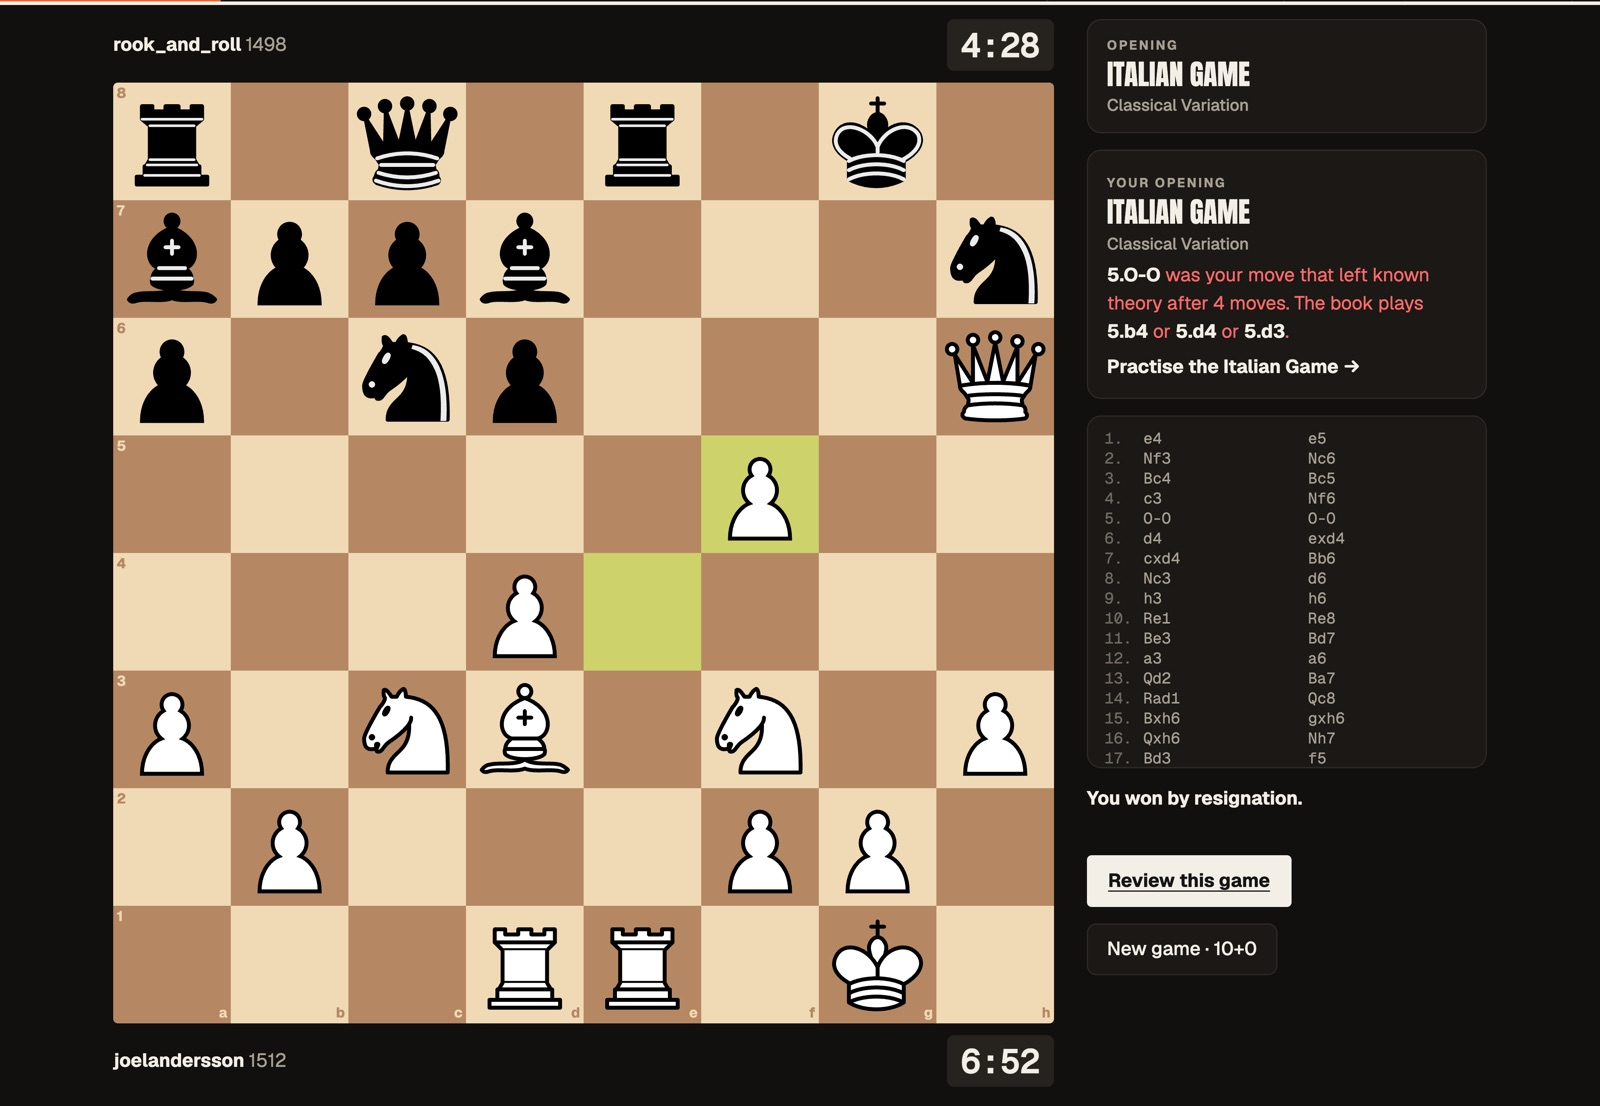
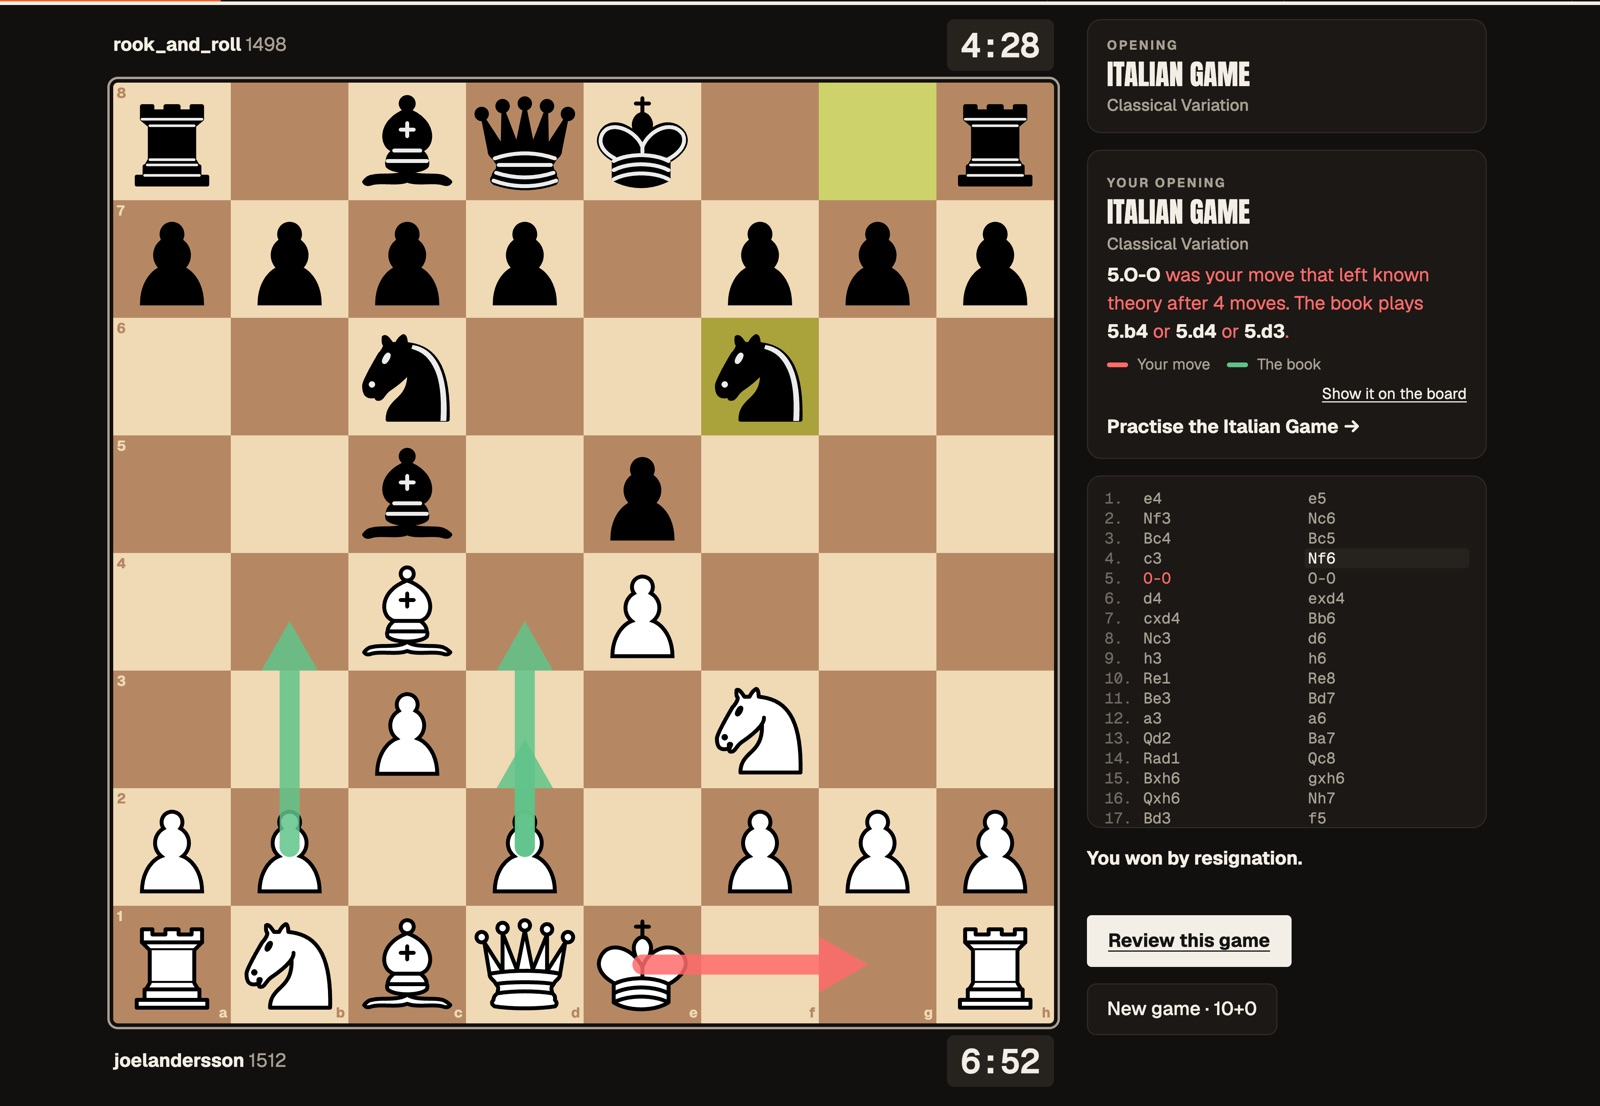
Play: after the game the board goes to where you left the book, your move as a red arrow and the book's in green, the move marked in the list; Show it on the board brings it back

diff --git a/play.js b/play.js
@@ -2,8 +2,8 @@
 // The login needs the board:play permission once; then a seek or a challenge starts a game, which Lichess
 // streams here move by move. When it ends, the game page reviews it.
 import { Chess } from 'https://cdn.jsdelivr.net/npm/chess.js@1.0.0/+esm';
-import { drawBoard, enableDrag } from './board.js?v=20261102160446';
-import { account, login, finishLogin } from './lichess.js?v=20261102160446';
+import { drawBoard, enableDrag } from './board.js?v=20261102161034';
+import { account, login, finishLogin } from './lichess.js?v=20261102161034';
 
 const $ = (s) => document.querySelector(s);
 const API = 'https://lichess.org';
@@ -135,7 +135,7 @@ function draw() {
   if (view !== null && view >= all.length) view = null;
   const b = view === null ? g.chess : new Chess();
   if (view !== null) all.slice(0, view).forEach((m) => b.move(m));
-  drawBoard(boardEl, b, { side: g.me, sel: view === null ? g.sel : null, last: b.history({ verbose: true }).at(-1) || null, pre: g.pre && view === null ? [g.pre.from, g.pre.to] : [] });
+  drawBoard(boardEl, b, { side: g.me, sel: view === null ? g.sel : null, last: b.history({ verbose: true }).at(-1) || null, pre: g.pre && view === null ? [g.pre.from, g.pre.to] : [], arrows: g.slip && view === g.slip.ply ? g.slip.arrows : [] });
   boardEl.classList.toggle('looking-back', view !== null);
   [...$('#play-moves').querySelectorAll('[data-ply]')].forEach((x) => x.classList.toggle('now', Number(x.dataset.ply) === (view ?? all.length) - 1));
   const top = g.me === 'w' ? 'b' : 'w';
@@ -148,6 +148,7 @@ function draw() {
   const sans = g.chess.history();
   $('#play-moves').innerHTML = sans.reduce((a, s, i) => (i % 2 ? a : [...a, `<li><span data-ply="${i}">${s}</span><span data-ply="${i + 1}">${sans[i + 1] || ''}</span></li>`]), []).join('');
   $('#play-moves').querySelector(`[data-ply="${(view ?? sans.length) - 1}"]`)?.classList.add('now');
+  if (g.slip) $('#play-moves').querySelector(`[data-ply="${g.slip.ply}"]`)?.classList.add('slip');
   if (view === null) $('#play-moves').scrollTop = 1e6;
   openingOf(sans.slice(0, 24)).then(([f, v]) => { $('#play-open').innerHTML = `${esc(f)}${v ? `<small>${esc(v)}</small>` : ''}`; });
 }
@@ -188,8 +189,18 @@ async function review() {
     ${!out ? '<p>The game stayed in known theory all through the opening.</p>' : mine
       ? `<p class="play-off bad"><b>${mv(out.ply, out.san)}</b> was your move that left known theory${out.ply ? ` after ${Math.ceil(out.ply / 2)} moves` : ''}. The book plays <b>${out.book.map((b) => mv(out.ply, b)).join('</b> or <b>')}</b>.</p>`
       : `<p class="play-off">Your opponent left known theory with <b>${mv(out.ply, out.san)}</b>; you were still in the book.</p>`}
+    ${mine ? '<p class="play-key"><i class="bad"></i>Your move <i class="good"></i>The book <button type="button" class="link" id="play-slip">Show it on the board</button></p>' : ''}
     ${f !== 'Starting position' ? `<p><a class="link" href="${link}">Practise the ${esc(f)} →</a></p>` : ''}`;
   $('#play-review').hidden = false;
+  // Your slip on the board: the position before it, your move in red and the book's in green.
+  if (mine) {
+    const b = new Chess(); sans.slice(0, out.ply).forEach((m) => b.move(m));
+    const arrow = (san, c) => { const m = new Chess(b.fen()).move(san); return [m.from, m.to, c]; };
+    g.slip = { ply: out.ply, arrows: [...out.book.map((x) => arrow(x, 'var(--good)')), arrow(out.san, 'var(--bad)')] };
+    const show = () => { view = g.slip.ply; draw(); };
+    $('#play-slip').addEventListener('click', show);
+    show();
+  }
 }
 function resetBtns() {
   $('#play-btns').innerHTML = '<button type="button" class="ghost" id="play-draw">Offer draw</button><button type="button" class="ghost" id="play-resign">Resign</button>';

diff --git a/app.js b/app.js
@@ -1,17 +1,17 @@
 import { Chess } from 'https://cdn.jsdelivr.net/npm/chess.js@1.0.0/+esm';
-import { drawBoard, enableDrag, clearShapes, shake, moveWords, instruction, GLYPH, flyStar } from './board.js?v=20261102160446';
-import { findMistakes, byTheme, pickPuzzles, THEMES } from './mistakes.js?v=20261102160446';
-import { ideaAt, CENTRE, hanging, dangerAfter, asMover } from './ideas.js?v=20261102160446';
-import { NAMED_TRAPS } from './traps.js?v=20261102160446';
-import { GUIDE } from './guide.js?v=20261102160446';
-import { STYLES, STYLE_OF, ABOUT, PLAN, VS_PLAN } from './styles.js?v=20261102160446';
-import { banner, confetti } from './celebrate.js?v=20261102160446';
-import { maia3Move } from './maia3.js?v=20261102160446';
-import { maiaMove, maiaLevel, MAIA_MAX } from './maia.js?v=20261102160446';
-import { nick, isCC, asLichess } from './chesscom.js?v=20261102160446';
-import { login, finishLogin, account, liveGames, lichessToken } from './lichess.js?v=20261102160446';
-import { openLogin } from './login.js?v=20261102160446';
-import { storedGames, gamesReady, profileFromRaw, skillsOf, playerCard, flagHtml, loadFlags, bandColor, proClass, tierOf, keptTypes } from './profile.js?v=20261102160446';
+import { drawBoard, enableDrag, clearShapes, shake, moveWords, instruction, GLYPH, flyStar } from './board.js?v=20261102161034';
+import { findMistakes, byTheme, pickPuzzles, THEMES } from './mistakes.js?v=20261102161034';
+import { ideaAt, CENTRE, hanging, dangerAfter, asMover } from './ideas.js?v=20261102161034';
+import { NAMED_TRAPS } from './traps.js?v=20261102161034';
+import { GUIDE } from './guide.js?v=20261102161034';
+import { STYLES, STYLE_OF, ABOUT, PLAN, VS_PLAN } from './styles.js?v=20261102161034';
+import { banner, confetti } from './celebrate.js?v=20261102161034';
+import { maia3Move } from './maia3.js?v=20261102161034';
+import { maiaMove, maiaLevel, MAIA_MAX } from './maia.js?v=20261102161034';
+import { nick, isCC, asLichess } from './chesscom.js?v=20261102161034';
+import { login, finishLogin, account, liveGames, lichessToken } from './lichess.js?v=20261102161034';
+import { openLogin } from './login.js?v=20261102161034';
+import { storedGames, gamesReady, profileFromRaw, skillsOf, playerCard, flagHtml, loadFlags, bandColor, proClass, tierOf, keptTypes } from './profile.js?v=20261102161034';
 
 const STORE = 'opening-book-v2';
 const MIN_SHARE = 0.05;   // an opponent reply must be played in at least 5% of games from that position

diff --git a/game.js b/game.js
@@ -2,12 +2,12 @@
 // decided it (yours and your opponent's mistakes, with the better move), and a short read of what
 // went well and what went badly. The game comes from the games kept for the profile, or straight
 // from Lichess. A game without analysis can be analysed here with Stockfish in a few seconds.
-import { banner, confetti } from './celebrate.js?v=20261102160446';
+import { banner, confetti } from './celebrate.js?v=20261102161034';
 import { Chess } from 'https://cdn.jsdelivr.net/npm/chess.js@1.0.0/+esm';
-import { drawBoard, enableDrag } from './board.js?v=20261102160446';
-import { account, lichessAuth } from './lichess.js?v=20261102160446';
-import { isCC, nick, ccGameUrl } from './chesscom.js?v=20261102160446';
-import { gamesReady, storedGames, keepGame, engineEval, applyEvals, winPct, profileFromRaw, skillsOf, fineSkillsOf } from './profile.js?v=20261102160446';
+import { drawBoard, enableDrag } from './board.js?v=20261102161034';
+import { account, lichessAuth } from './lichess.js?v=20261102161034';
+import { isCC, nick, ccGameUrl } from './chesscom.js?v=20261102161034';
+import { gamesReady, storedGames, keepGame, engineEval, applyEvals, winPct, profileFromRaw, skillsOf, fineSkillsOf } from './profile.js?v=20261102161034';
 
 const $ = (s) => document.querySelector(s);
 const esc = (s) => String(s).replace(/[&<>"]/g, (c) => `&#${c.charCodeAt(0)};`);
@@ -310,7 +310,7 @@ async function tryMove(from, to) {
   if (t.c.isGameOver()) return drawTry(), ended(t), true;
   t.busy = true; drawTry();
   const legal = t.c.moves({ verbose: true });
-  const { maia3Move } = await import('./maia3.js?v=20261102160446'), { maiaMove, MAIA_MAX } = await import('./maia.js?v=20261102160446'); // loaded on the first move only: the nets are big
+  const { maia3Move } = await import('./maia3.js?v=20261102161034'), { maiaMove, MAIA_MAX } = await import('./maia.js?v=20261102161034'); // loaded on the first move only: the nets are big
   let r = null;
   try { r = (await within(20000, maia3Move(t.c.fen(), legal, t.rating, t.rating))).move; } catch (e) { console.warn(e); }
   if (!r && t.rating < MAIA_MAX + 100) try { r = (await within(15000, maiaMove(t.rating, [t.c.fen()], legal))).move; } catch (e) { console.warn(e); }

diff --git a/supporters.html b/supporters.html
@@ -16,10 +16,10 @@
   <link rel="preconnect" href="https://fonts.googleapis.com">
   <link rel="preconnect" href="https://fonts.gstatic.com" crossorigin>
   <link rel="stylesheet" href="https://fonts.googleapis.com/css2?family=Anton&family=Geist:wght@400;500;700&family=Geist+Mono:wght@400;500&display=swap">
-  <link rel="stylesheet" href="style.css?v=20261102160446">
-  <script src="move.js?v=20261102160446"></script>
-  <script src="header.js?v=20261102160446" defer></script>
-  <script src="theme.js?v=20261102160446"></script>
+  <link rel="stylesheet" href="style.css?v=20261102161034">
+  <script src="move.js?v=20261102161034"></script>
+  <script src="header.js?v=20261102161034" defer></script>
+  <script src="theme.js?v=20261102161034"></script>
 </head>
 <body>
   <header class="top">
@@ -50,11 +50,11 @@
       <div class="sups-shots">
         <figure><img src="img/supporters/play-lobby.jpg" alt="The Play page: Play first in the menu, time controls for rapid, classical and blitz, and your last games" loading="lazy"><figcaption>Play in the menu: pick a time and find an opponent</figcaption></figure>
         <figure><img src="img/supporters/play-game.jpg" alt="A game on Chess Labs: the board with both clocks, the opening named, and the moves" loading="lazy"><figcaption>During a game: the board, the clocks and the opening</figcaption></figure>
-        <figure><img src="img/supporters/play-review.jpg" alt="After a game: where you left the known line, what the book plays there, and a link to practise the opening" loading="lazy"><figcaption>After the game: where you left your line, and a link to practise it</figcaption></figure>
+        <figure><img src="img/supporters/play-review.jpg" alt="After a game: where you left the known line, your move in red and the book’s in green on the board, and a link to practise the opening" loading="lazy"><figcaption>After the game: where you left your line, your move and the book’s on the board, and a link to practise it</figcaption></figure>
       </div>
     </section>
   </main>
 
-  <script type="module" src="supporters.js?v=20261102160446"></script>
+  <script type="module" src="supporters.js?v=20261102161034"></script>
 </body>
 </html>

diff --git a/style.css b/style.css
@@ -2934,6 +2934,10 @@ body:has(> .msg-foot) > main { min-height: calc(100dvh - 210px); }
 .play-game { display: grid; grid-template-columns: minmax(0, min(calc(100vh - 200px), 860px)) minmax(0, 340px); gap: 28px; align-items: start; justify-content: center; margin-top: 12px; }
 .play-open small { display: block; margin-top: 4px; font: 500 14px/1.3 var(--font-body); text-transform: none; color: var(--muted); }
 .play-review p { margin: 6px 0 0; } .play-off.bad { color: var(--bad); } .play-off.bad b { color: var(--ink); }
+.play-key { display: flex; flex-wrap: wrap; align-items: center; gap: 6px 8px; font-size: 13px; color: var(--muted); }
+.play-key i { width: 18px; height: 4px; border-radius: 2px; background: var(--bad); } .play-key i.good { background: var(--good); margin-left: 6px; }
+.play-key .link { margin-left: auto; font: inherit; background: none; border: 0; padding: 0; color: var(--ink); text-decoration: underline; cursor: pointer; }
+.play-moves .slip { color: var(--bad); }
 .play-board-col { display: grid; gap: 10px; }
 .play-pl { display: flex; justify-content: space-between; align-items: center; } .play-pl b span { color: var(--muted); font-weight: 400; }
 .play-clock { font: 600 28px var(--font-mono); background: var(--raised); padding: 4px 12px; border-radius: 6px; font-variant-numeric: tabular-nums; }

diff --git a/supporter.js b/supporter.js
@@ -107,7 +107,7 @@ export async function openSupport() {
   dlg.querySelector('.chat-x').addEventListener('click', close);
   dlg.addEventListener('cancel', (e) => { e.preventDefault(); close(); });
   const body = dlg.querySelector('.sup-body');
-  dlg.addEventListener('click', async (e) => { if (e.target.closest('[data-sup-idea]')) { close(); (await import('./chat.js?v=20261102160446')).openChat(); } });
+  dlg.addEventListener('click', async (e) => { if (e.target.closest('[data-sup-idea]')) { close(); (await import('./chat.js?v=20261102161034')).openChat(); } });
   const grid = (pick, on) => `<div class="sup-frames${pick ? '' : ' locked'}">${FRAMES.map(([k, t]) => `<button type="button" class="sup-frame${k === on ? ' on' : ''}" data-frame="${k}"${pick ? '' : ' disabled'}><span class="sup-fx fx-${k}"><span class="sup-mini"></span></span><small>${t}</small></button>`).join('')}</div>`;
   const pitch = `<p class="sup-lead"><b>Everything on Chess Labs is free, and always will be.</b> No paywall, no ads, no locked features.</p>
     <p>This isn't a site to make money from. It costs money to run, though: the servers, the database and the analysis. If you want to help keep it going, you can support it for <b>${PRICE} a month</b>, and you get something small back.</p>

diff --git a/profile.js b/profile.js
@@ -3,11 +3,11 @@
 // analysis is used where a game has it (accuracy, blunders, who was winning when). The result is kept
 // in this browser, and so are the games themselves: later visits fetch only the games played since.
 import { Chess } from 'https://cdn.jsdelivr.net/npm/chess.js@1.0.0/+esm';
-import { account, login, finishLogin, lichessAuth } from './lichess.js?v=20261102160446';
-import { openLogin } from './login.js?v=20261102160446';
-import { STYLE_OF } from './styles.js?v=20261102160446';
-import { isCC, nick, siteOf, ccUrl, fetchCC, ccUser, asLichess, fromCC } from './chesscom.js?v=20261102160446';
-import { PEOPLE } from './pros.js?v=20261102160446';
+import { account, login, finishLogin, lichessAuth } from './lichess.js?v=20261102161034';
+import { openLogin } from './login.js?v=20261102161034';
+import { STYLE_OF } from './styles.js?v=20261102161034';
+import { isCC, nick, siteOf, ccUrl, fetchCC, ccUser, asLichess, fromCC } from './chesscom.js?v=20261102161034';
+import { PEOPLE } from './pros.js?v=20261102161034';
 
 const MAX = 500;
 const EARLY = 60, REDRAW = 150; // a first look-up draws the profile after EARLY games, then again every REDRAW, while the rest still come in

diff --git a/blunder.js b/blunder.js
@@ -1,11 +1,11 @@
 // Spot the blunder: a few moves from one of your own games play out on the board, and one of yours was
 // a blunder. Pick it. From the slips Find my mistakes and your analysed games have found (the puzzles
 // on mistakes.html), with the game's moves from the games kept in this browser.
-import { banner, confetti } from './celebrate.js?v=20261102160446';
+import { banner, confetti } from './celebrate.js?v=20261102161034';
 import { Chess } from 'https://cdn.jsdelivr.net/npm/chess.js@1.0.0/+esm';
-import { drawBoard } from './board.js?v=20261102160446';
-import { THEMES, findMistakes, pickPuzzles } from './mistakes.js?v=20261102160446';
-import { storedGames, gamesReady } from './profile.js?v=20261102160446';
+import { drawBoard } from './board.js?v=20261102161034';
+import { THEMES, findMistakes, pickPuzzles } from './mistakes.js?v=20261102161034';
+import { storedGames, gamesReady } from './profile.js?v=20261102161034';
 
 const PUZZLES = 'opening-book-v2-mistakes';
 export const puzzles = () => { try { return JSON.parse(localStorage.getItem(PUZZLES)) || []; } catch { return []; } };

diff --git a/index.html b/index.html
@@ -16,10 +16,10 @@
   <link rel="preconnect" href="https://fonts.googleapis.com">
   <link rel="preconnect" href="https://fonts.gstatic.com" crossorigin>
   <link rel="stylesheet" href="https://fonts.googleapis.com/css2?family=Anton&family=Geist:wght@400;500;700&family=Geist+Mono:wght@400;500&display=swap">
-  <link rel="stylesheet" href="style.css?v=20261102160446">
-  <script src="move.js?v=20261102160446"></script>
-  <script src="header.js?v=20261102160446" defer></script>
-  <script src="theme.js?v=20261102160446"></script>
+  <link rel="stylesheet" href="style.css?v=20261102161034">
+  <script src="move.js?v=20261102161034"></script>
+  <script src="header.js?v=20261102161034" defer></script>
+  <script src="theme.js?v=20261102161034"></script>
 </head>
 <body>
   <header class="top">
@@ -230,7 +230,7 @@
     </div>
   </footer>
 
-  <script type="module" src="app.js?v=20261102160446"></script>
+  <script type="module" src="app.js?v=20261102161034"></script>
   <dialog id="complete" class="complete" aria-labelledby="complete-title">
     <h2 id="complete-title"></h2>
     <p id="complete-text"></p>

diff --git a/mistakes.html b/mistakes.html
@@ -16,10 +16,10 @@
   <link rel="preconnect" href="https://fonts.googleapis.com">
   <link rel="preconnect" href="https://fonts.gstatic.com" crossorigin>
   <link rel="stylesheet" href="https://fonts.googleapis.com/css2?family=Anton&family=Geist:wght@400;500;700&family=Geist+Mono:wght@400;500&display=swap">
-  <link rel="stylesheet" href="style.css?v=20261102160446">
-  <script src="move.js?v=20261102160446"></script>
-  <script src="header.js?v=20261102160446" defer></script>
-  <script src="theme.js?v=20261102160446"></script>
+  <link rel="stylesheet" href="style.css?v=20261102161034">
+  <script src="move.js?v=20261102161034"></script>
+  <script src="header.js?v=20261102161034" defer></script>
+  <script src="theme.js?v=20261102161034"></script>
 </head>
 <body>
   <header class="top">
@@ -56,6 +56,6 @@
     <nav id="items" class="list" aria-label="Your mistakes"></nav>
   </main>
 
-  <script type="module" src="mistakes-page.js?v=20261102160446"></script>
+  <script type="module" src="mistakes-page.js?v=20261102161034"></script>
 </body>
 </html>

diff --git a/endgames.html b/endgames.html
@@ -16,10 +16,10 @@
   <link rel="preconnect" href="https://fonts.googleapis.com">
   <link rel="preconnect" href="https://fonts.gstatic.com" crossorigin>
   <link rel="stylesheet" href="https://fonts.googleapis.com/css2?family=Anton&family=Geist:wght@400;500;700&family=Geist+Mono:wght@400;500&display=swap">
-  <link rel="stylesheet" href="style.css?v=20261102160446">
-  <script src="move.js?v=20261102160446"></script>
-  <script src="header.js?v=20261102160446" defer></script>
-  <script src="theme.js?v=20261102160446"></script>
+  <link rel="stylesheet" href="style.css?v=20261102161034">
+  <script src="move.js?v=20261102161034"></script>
+  <script src="header.js?v=20261102161034" defer></script>
+  <script src="theme.js?v=20261102161034"></script>
 </head>
 <body>
   <header class="top">
@@ -83,6 +83,6 @@
     <nav id="items" class="list" aria-label="Endgames"></nav>
   </main>
 
-  <script type="module" src="endgames.js?v=20261102160446"></script>
+  <script type="module" src="endgames.js?v=20261102161034"></script>
 </body>
 </html>

diff --git a/basics.html b/basics.html
@@ -16,10 +16,10 @@
   <link rel="preconnect" href="https://fonts.googleapis.com">
   <link rel="preconnect" href="https://fonts.gstatic.com" crossorigin>
   <link rel="stylesheet" href="https://fonts.googleapis.com/css2?family=Anton&family=Geist:wght@400;500;700&family=Geist+Mono:wght@400;500&display=swap">
-  <link rel="stylesheet" href="style.css?v=20261102160446">
-  <script src="move.js?v=20261102160446"></script>
-  <script src="header.js?v=20261102160446" defer></script>
-  <script src="theme.js?v=20261102160446"></script>
+  <link rel="stylesheet" href="style.css?v=20261102161034">
+  <script src="move.js?v=20261102161034"></script>
+  <script src="header.js?v=20261102161034" defer></script>
+  <script src="theme.js?v=20261102161034"></script>
 </head>
 <body>
   <header class="top">
@@ -56,6 +56,6 @@
     <nav id="items" class="list" aria-label="Exercises"></nav>
   </main>
 
-  <script type="module" src="basics.js?v=20261102160446"></script>
+  <script type="module" src="basics.js?v=20261102161034"></script>
 </body>
 </html>
